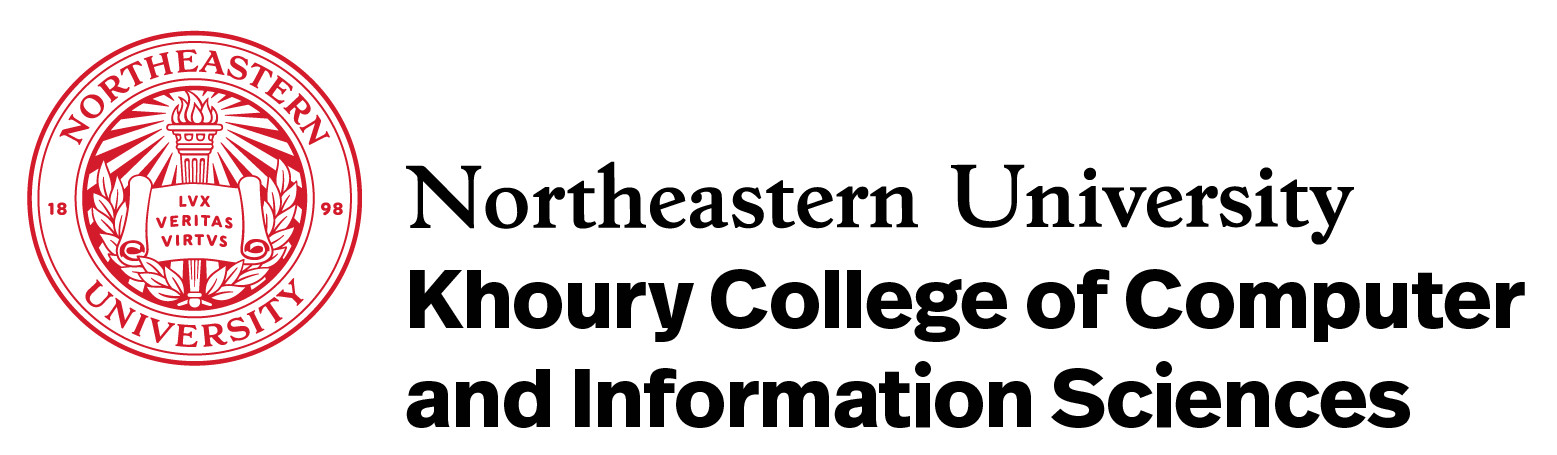
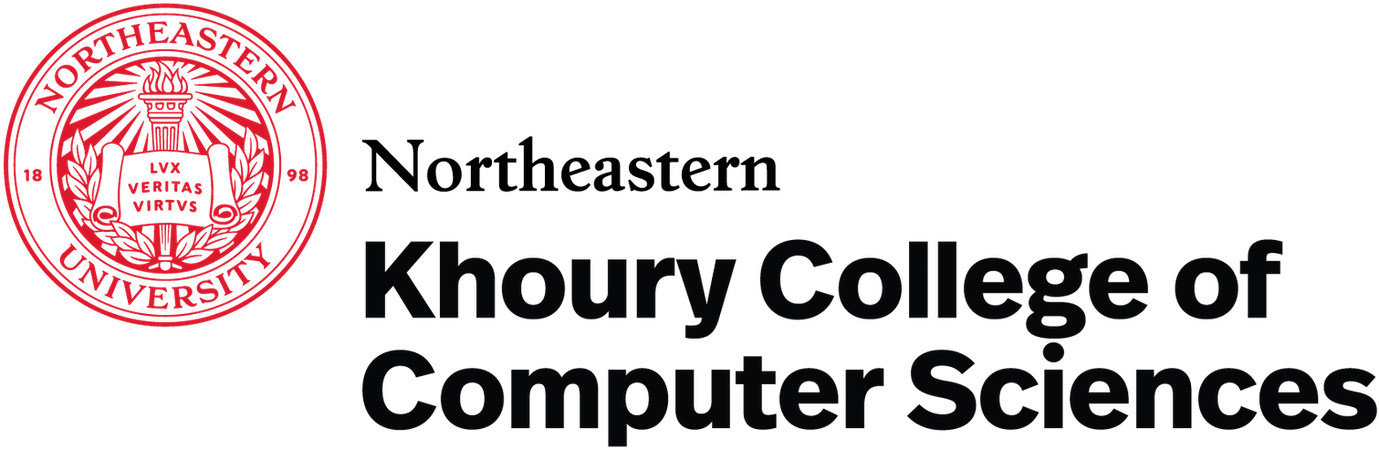
final naming

Changed region(s): [[0.0, 0.0, 1.0, 0.9956]]

diff --git a/latex/letter/letter.tex b/latex/letter/letter.tex
@@ -4,7 +4,7 @@
 \open{Dear Recipient:}
 \close{%
 Name \\
-Title, Khoury College of Computer and Information Sciences \\
+Title, Khoury College of Computer Sciences \\
 Phone: (617) 373-1234 \\
 E-Mail: init.last@northeastern.edu
 }
